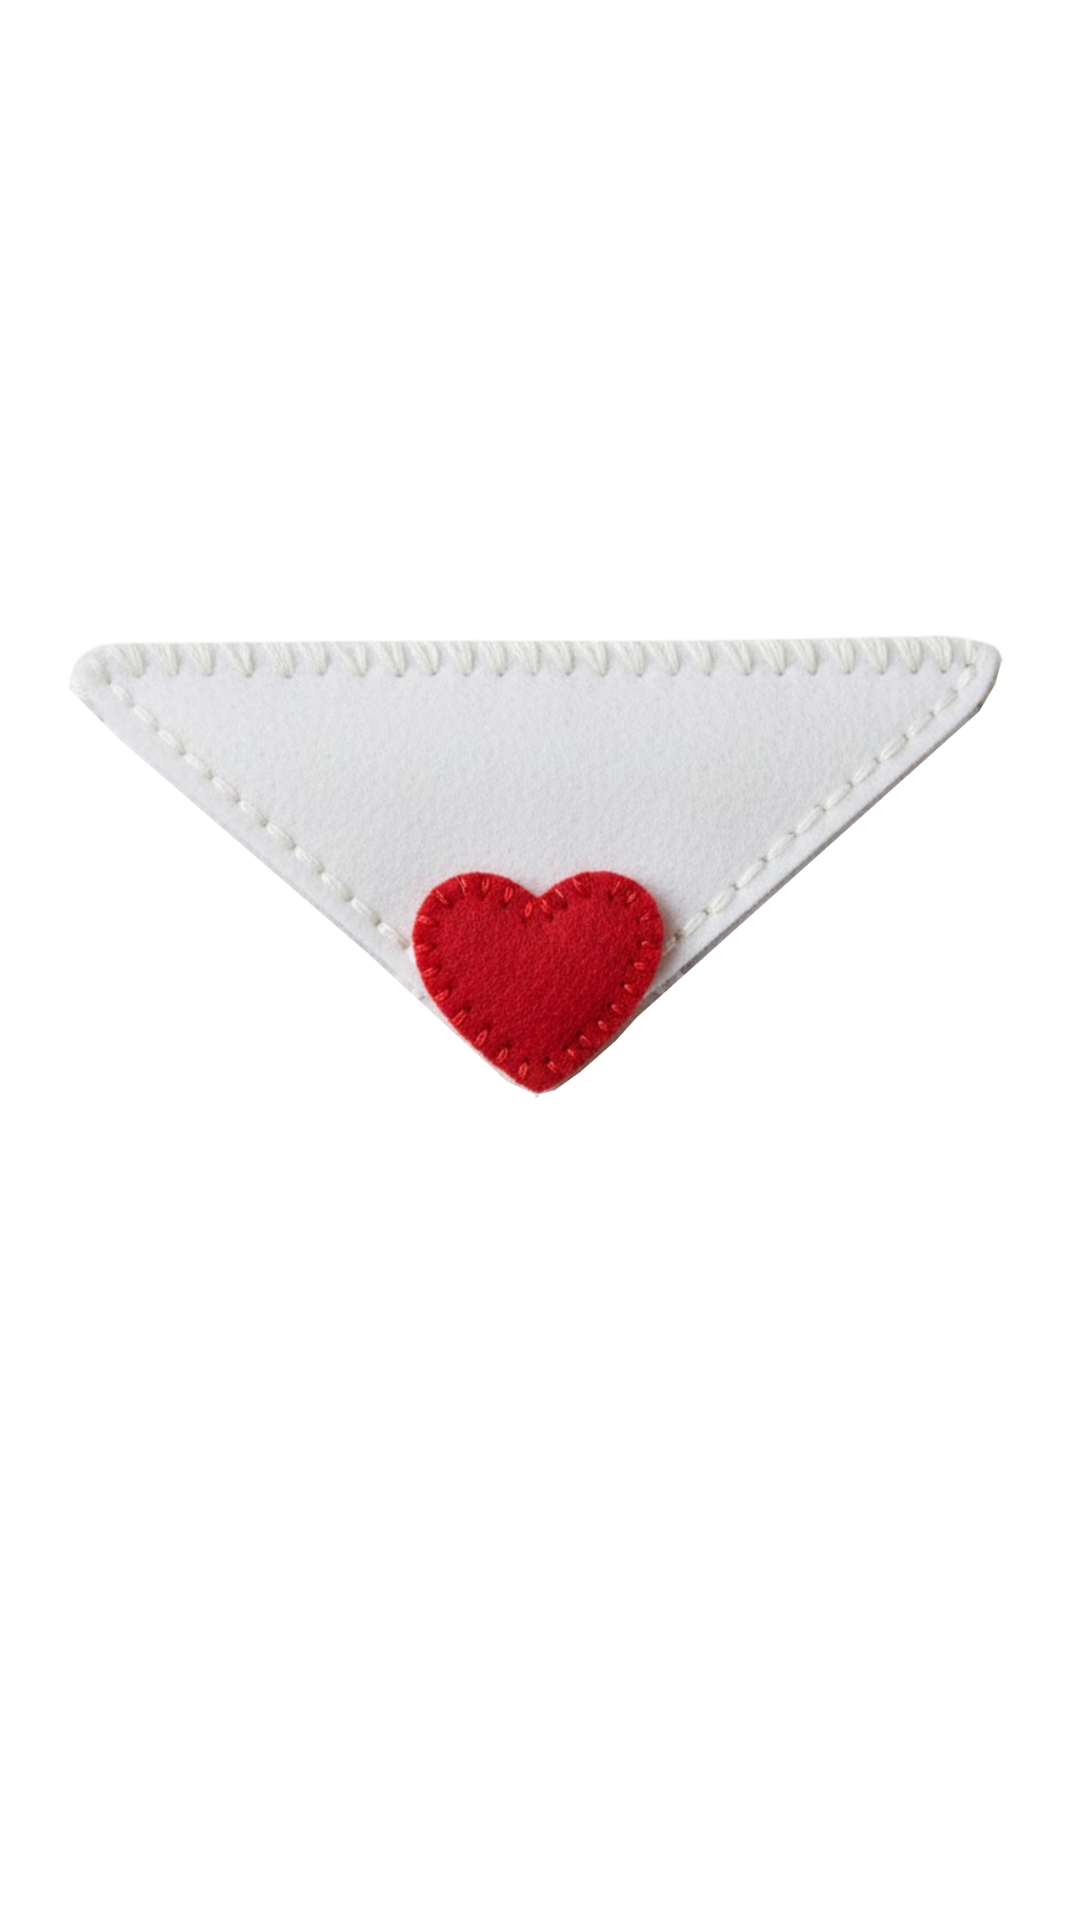
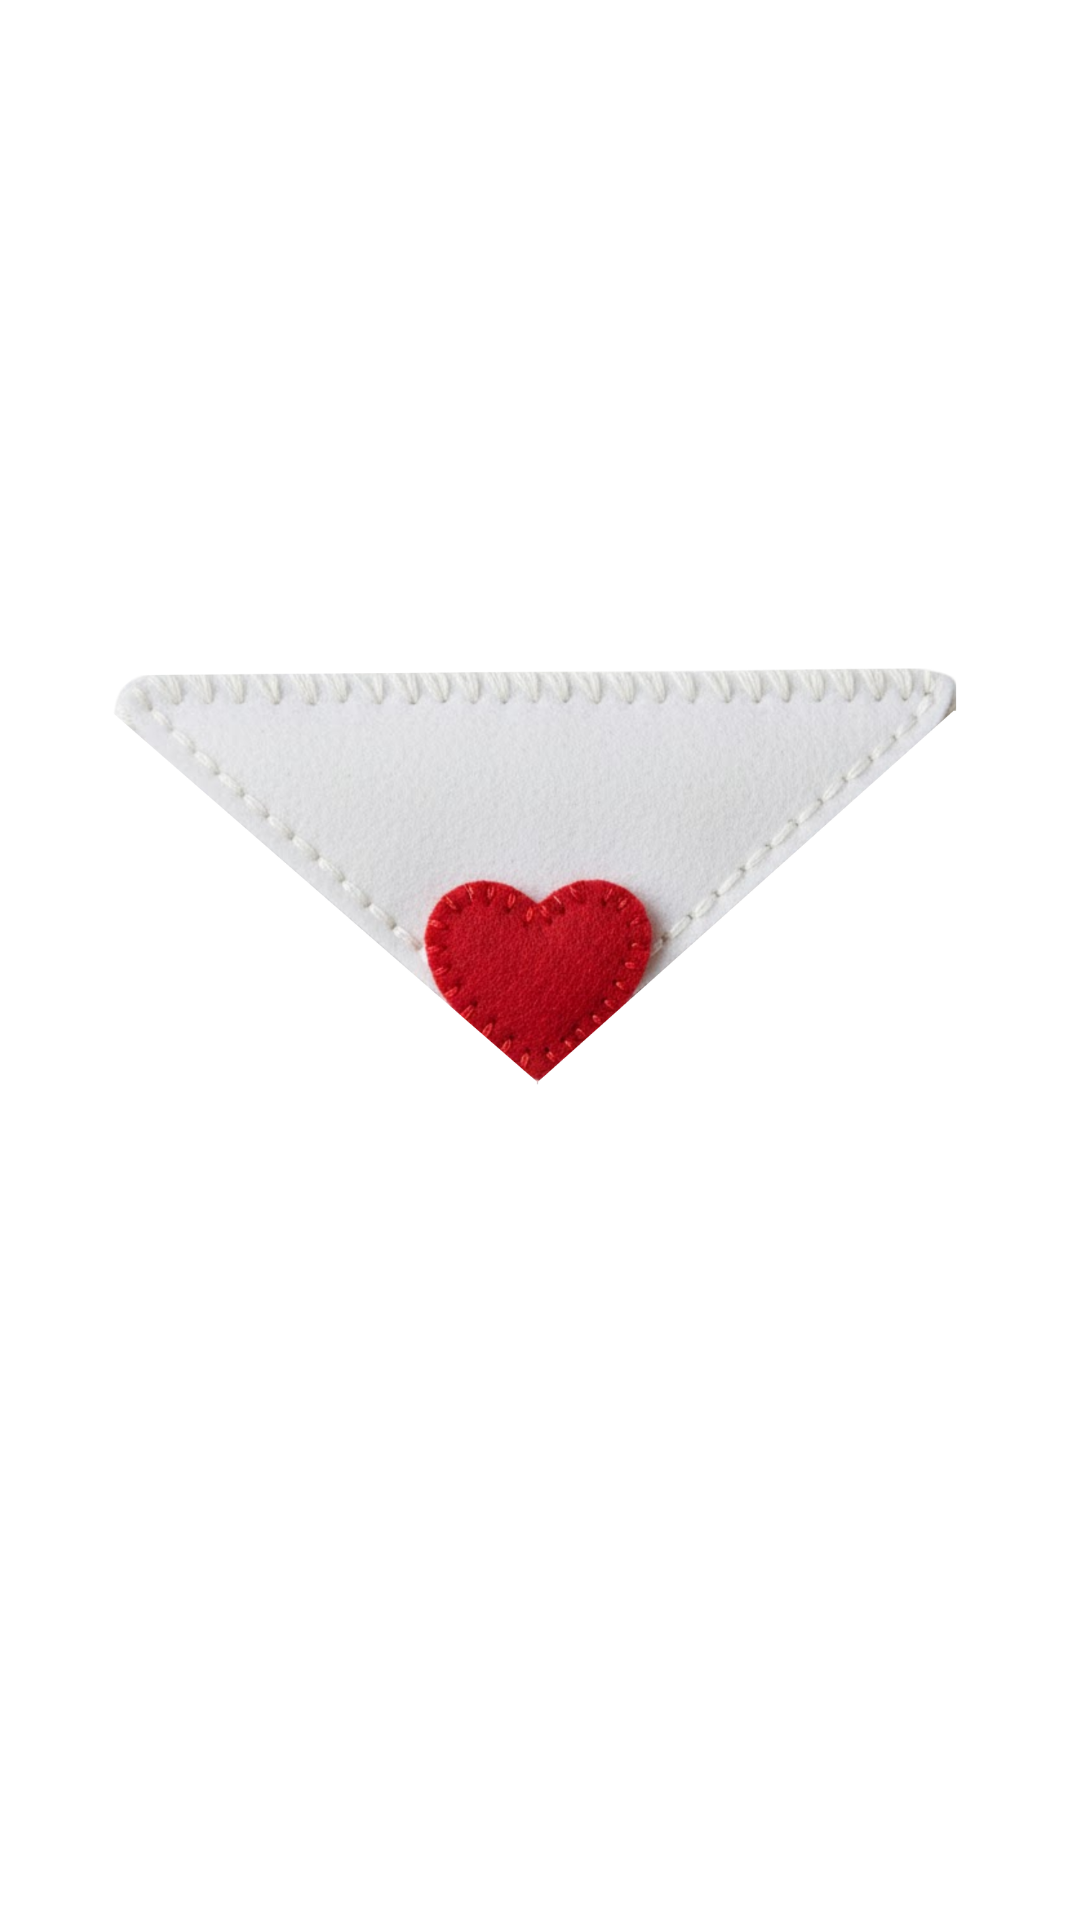
aligned img elements for envelope inside Envelope.jsx

Changed region(s): [[0.0611, 0.3125, 0.9472, 0.5938]]

diff --git a/src/components/Envelope.jsx b/src/components/Envelope.jsx
@@ -1,0 +1,17 @@
+import envelopeBody from "../assets/envelope-body.png";
+import envelopeFlap from "../assets/envelopeFlap.png";
+import letter from "../assets/letter.png";
+
+import React from 'react'
+
+const Envelope = () => {
+  return (
+    <div className="envelope-container">
+      <img src={letter} alt="Letter" className="letter" />
+      <img src={envelopeBody} alt="Envelope body" className="envelope-body" />
+      <img src={envelopeFlap} alt="Envelope flap" className="envelope-flap" />
+    </div>
+  );
+}
+
+export default Envelope

diff --git a/src/styles/envelope.css b/src/styles/envelope.css
@@ -1,0 +1,30 @@
+.envelope-container {
+  position: relative;
+  width: 70vw;
+  max-width: 360px;
+}
+
+.envelope-container img {
+  width: 100%;
+  display: block;
+}
+
+/* Layering */
+.letter {
+  position: absolute;
+  top: 0;
+  left: 0;
+  z-index: 1;
+}
+
+.envelope-body {
+  position: relative;
+  z-index: 2;
+}
+
+.envelope-flap {
+  position: absolute;
+  top: 1%;
+  left: 0;
+  z-index: 3;
+}

diff --git a/src/App.jsx b/src/App.jsx
@@ -1,13 +1,13 @@
-
-import './App.css'
+import Envelope from "./components/Envelope";
+import "./styles/envelope.css";
 
 function App() {
-
   return (
     <div>
-      <h1>Valentine Letter</h1>
+      <h2>Click to open</h2>
+      <Envelope />
     </div>
   );
 }
 
-export default App
+export default App;
